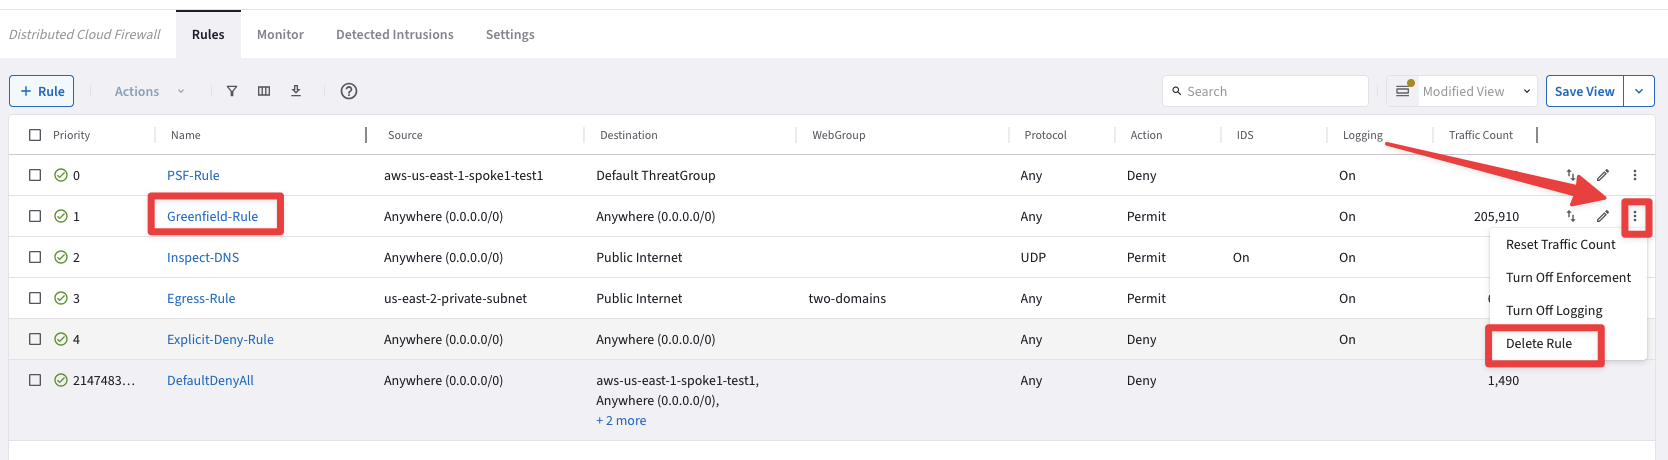
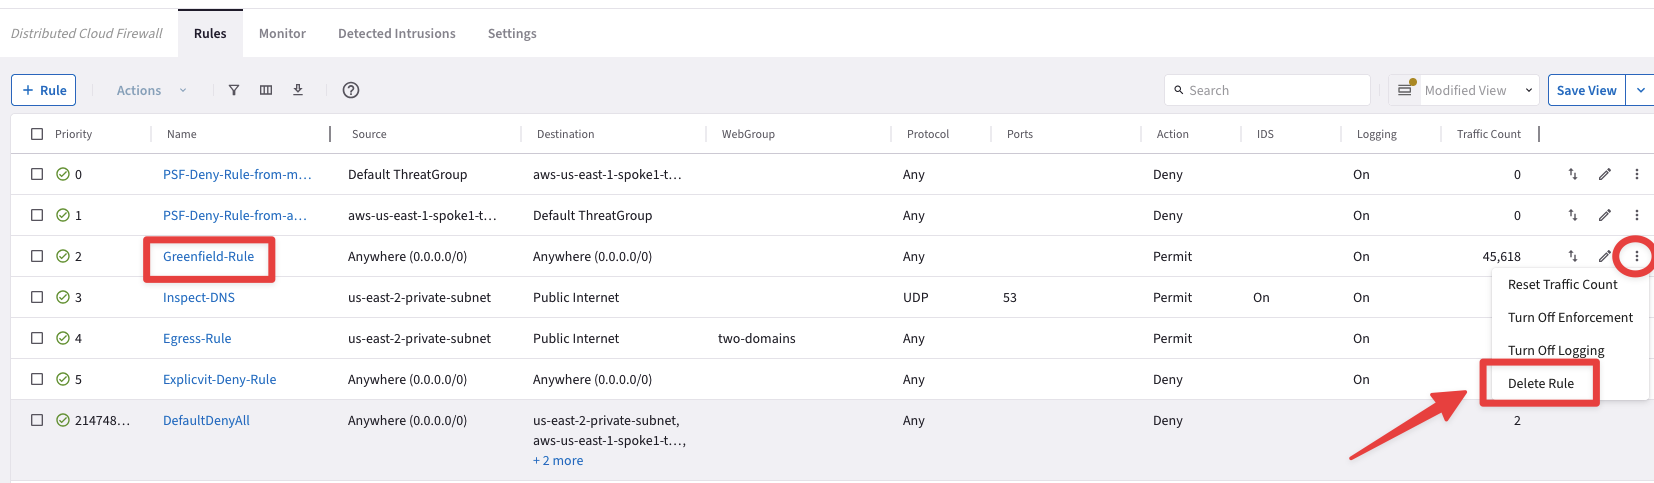
update for pro

diff --git a/ace_pro/docs/lab9.md b/ace_pro/docs/lab9.md
@@ -266,6 +266,7 @@ Do not forget now to **Commit** your new rules!
 
 ```{figure} images/lab96-newrule-commit.png
 ---
+height: 250px
 align: center
 ---
 Commit the new rules
@@ -274,7 +275,7 @@ Commit the new rules
 ```{important}
 The **`Default ThreatGroup`** can be used in DCF rules to ensure that traffic meeting the ThreatGroup criteria is blocked. When traffic triggers that rule, its DCF rule references are shown on the **Groups > ThreatGroups** tab.
 
-The Default ThreatGroup is regularly updated with data from the Proofpoint Global Threat Database.
+The Default ThreatGroup is regularly updated with data from the `Proofpoint Global Threat Database`.
 ```
 
 Explore the content of the `Default ThreatGroup`: 
@@ -283,6 +284,7 @@ Explore the content of the `Default ThreatGroup`:
 
 ```{figure} images/lab96-newrule12.png
 ---
+height: 400px
 align: center
 ---
 PSF-Rule
@@ -290,7 +292,7 @@ PSF-Rule
 
 ## 8.0 Generate again traffic towards the "Bad Guy"
 
-Now delete the **Greenfield-Rule**: 
+Now let's delete the **Greenfield-Rule**, such that the **ZTNA** can be restored in the Data PAth!
 
 - Click on the **three dots** icon on the right-hand side of the Greenfield-Rule entry and then choose the `"Delete Rule"` option.
 
@@ -298,6 +300,7 @@ Do not forget to click on **Commit**.
 
 ```{figure} images/lab66-newruledelete.png
 ---
+height: 400px
 align: center
 ---
 Deletion of the Greenfield-Rule
@@ -305,6 +308,15 @@ Deletion of the Greenfield-Rule
 
 ```{figure} images/lab66-newruledeleted.png
 ---
+height: 400px
+align: center
+---
+Commit
+```
+
+```{figure} images/lab66-newruledeleted00.png
+---
+height: 400px
 align: center
 ---
 DCF Rules List
@@ -318,7 +330,7 @@ The `aws-us-east-1-spoke1-test1` instance should only be able to reach the follo
 2) www.microsoft.com
 3) www.aws.com
 
-### 8.1 Create a new WebGroup
+### 8.1 Create a PSF-Allow-Rule
 
 Go to **CoPilot > Groups > WebGroups** and then click on the `"+ WebGroup"` button.
 
